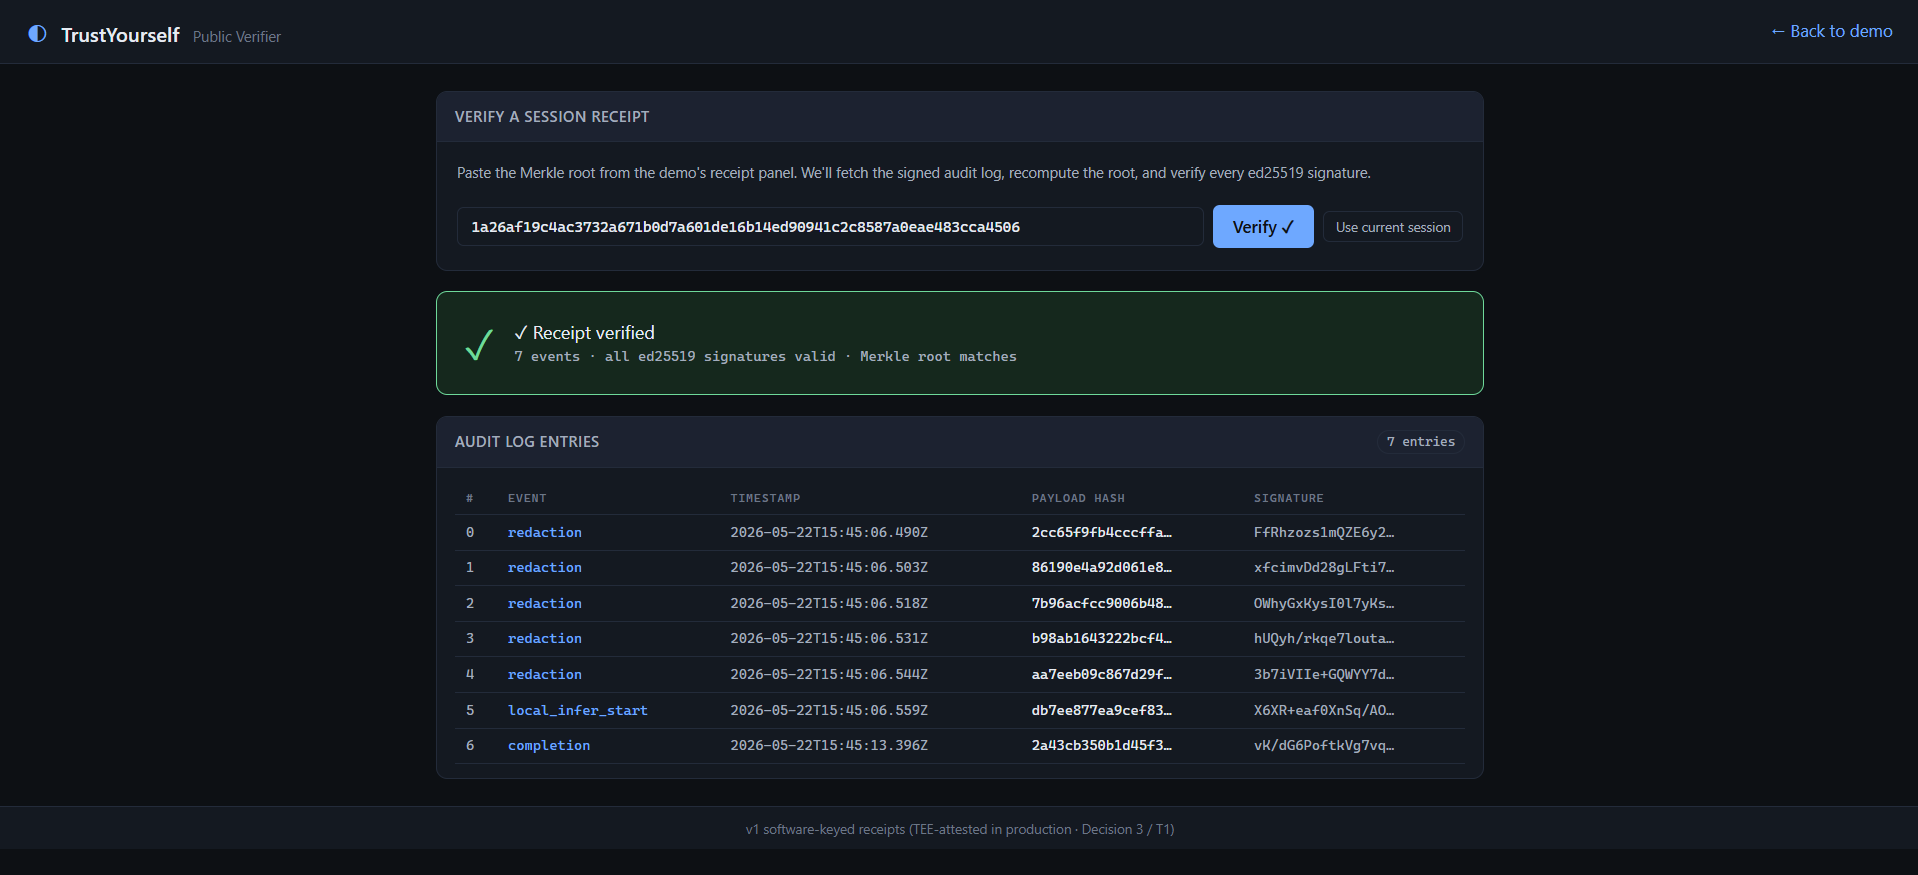
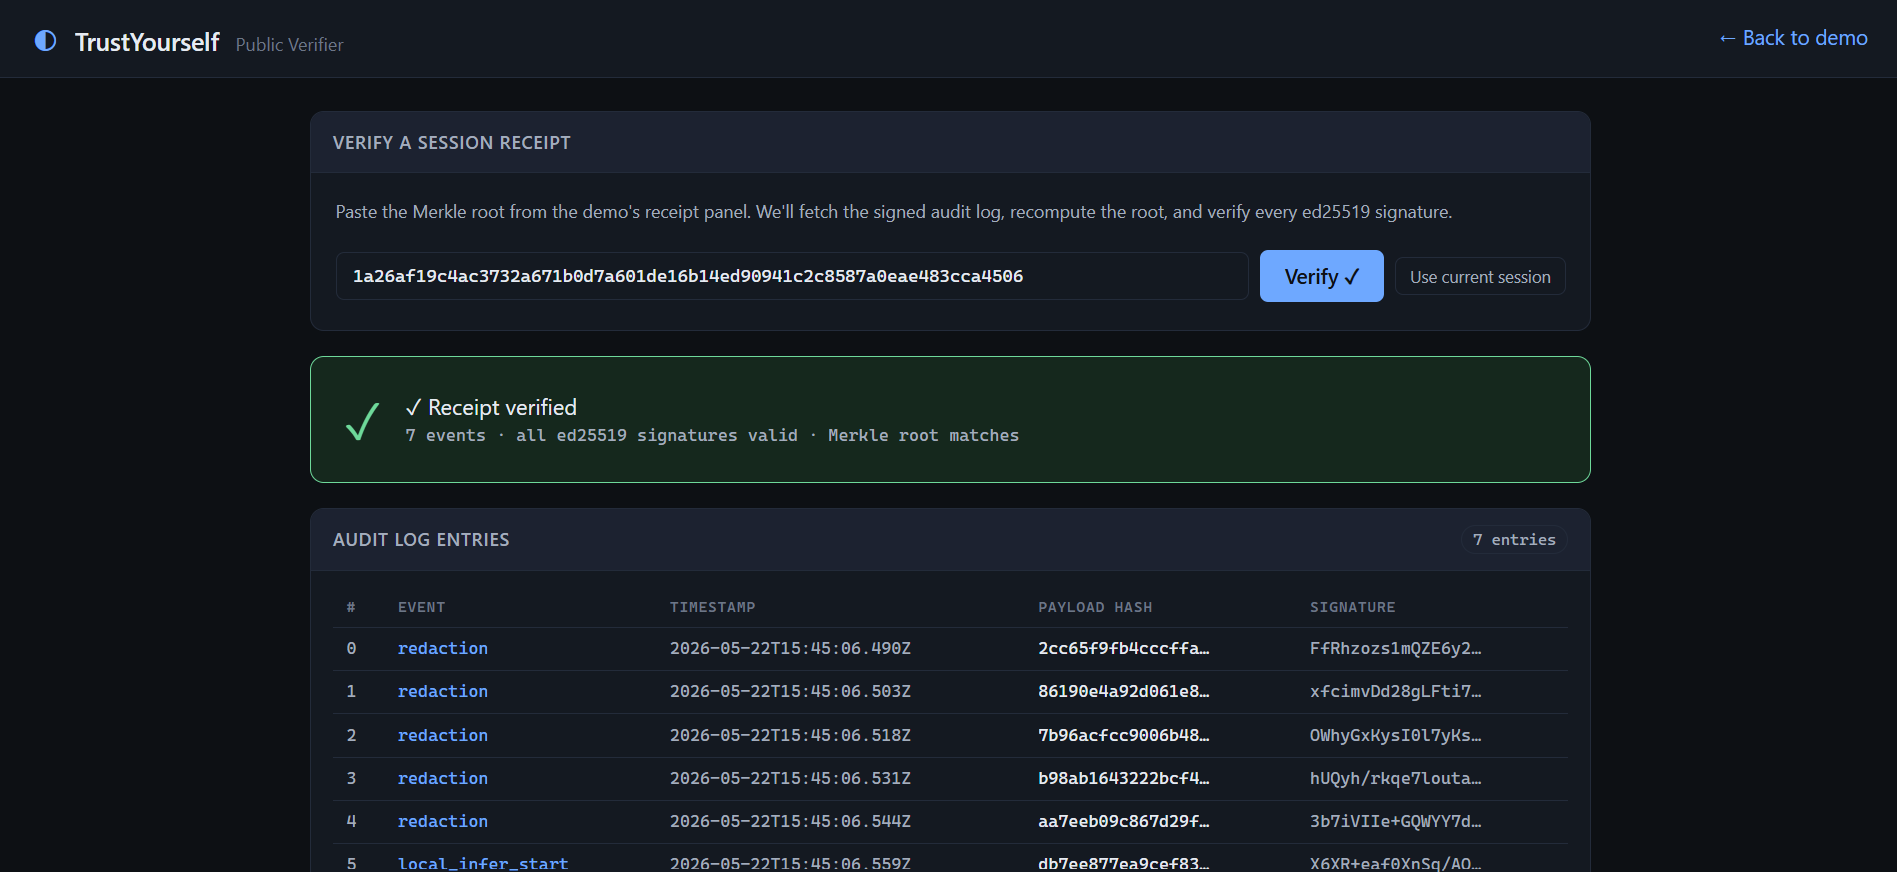
Updated Readme.md with project preview image

diff --git a/README.md b/README.md
@@ -22,9 +22,13 @@ For the full product vision and locked decisions, see [`memory/tee-orchestrator-
 
 ![Reassembled Answer and Signed Receipt](Project%20Preview/Reassembeled%20Answer%20and%20Signed%20receipt.png)
 
-## Cloud Sent Data and Final Query
+## Cloud Sent Data
 
 ![Cloud Sent Data and Final Query](Project%20Preview/Cloud%20sent%20data%20and%20final%20query.png)
+
+## Final Query
+
+![Final Query](Project%20Preview/Final%20query.png)
 
 ## Session Receipt
 